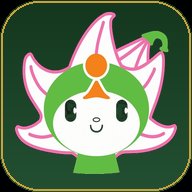
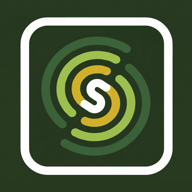
v1.15: アプリアイコンを新デザイン(渦巻きS・緑/金)に変更
- icon-180.png/icon-192.png を新デザインに差し替え（元3200pxから高品質縮小）
- 起動画面バージョン 1.14→1.15
- アイコン参照に ?v=115 を付与（新規ホーム画面追加者に新アイコンを確実に配信）
- ロジック変更なし（番組表/計測には未接触）

diff --git a/index.html b/index.html
@@ -5,13 +5,13 @@
 <meta name="viewport" content="width=device-width, initial-scale=1.0, viewport-fit=cover">
 <meta name="apple-mobile-web-app-capable" content="yes">
 <title>しそチャンNET</title>
-<link rel="apple-touch-icon" href="icon-180.png">
-<link rel="icon" type="image/png" sizes="192x192" href="icon-192.png">
+<link rel="apple-touch-icon" href="icon-180.png?v=115">
+<link rel="icon" type="image/png" sizes="192x192" href="icon-192.png?v=115">
 <meta name="apple-mobile-web-app-capable" content="yes">
 <meta name="apple-mobile-web-app-status-bar-style" content="black-translucent">
 <meta name="apple-mobile-web-app-title" content="しそチャンNET">
-<link rel="apple-touch-icon" href="icon-180.png">
-<link rel="icon" type="image/png" sizes="192x192" href="icon-192.png">
+<link rel="apple-touch-icon" href="icon-180.png?v=115">
+<link rel="icon" type="image/png" sizes="192x192" href="icon-192.png?v=115">
 <style>
 @import url('https://fonts.googleapis.com/css2?family=Noto+Sans+JP:wght@300;400;500;700&family=Zen+Kaku+Gothic+New:wght@300;400;500;700;900&display=swap');
 :root{
@@ -774,7 +774,7 @@ body.cursor-hidden,body.cursor-hidden *{cursor:none !important;}
 <div id="power-screen">
   <div style="display:flex;flex-direction:column;align-items:center;gap:0;">
     <div class="ps-logo-main">しそチャン<em>NET</em></div>
-    <div class="ps-version">version 1.14</div>
+    <div class="ps-version">version 1.15</div>
   </div>
   <div style="height:18px"></div>
   <div style="display:flex;flex-direction:column;align-items:center;gap:6px;">
